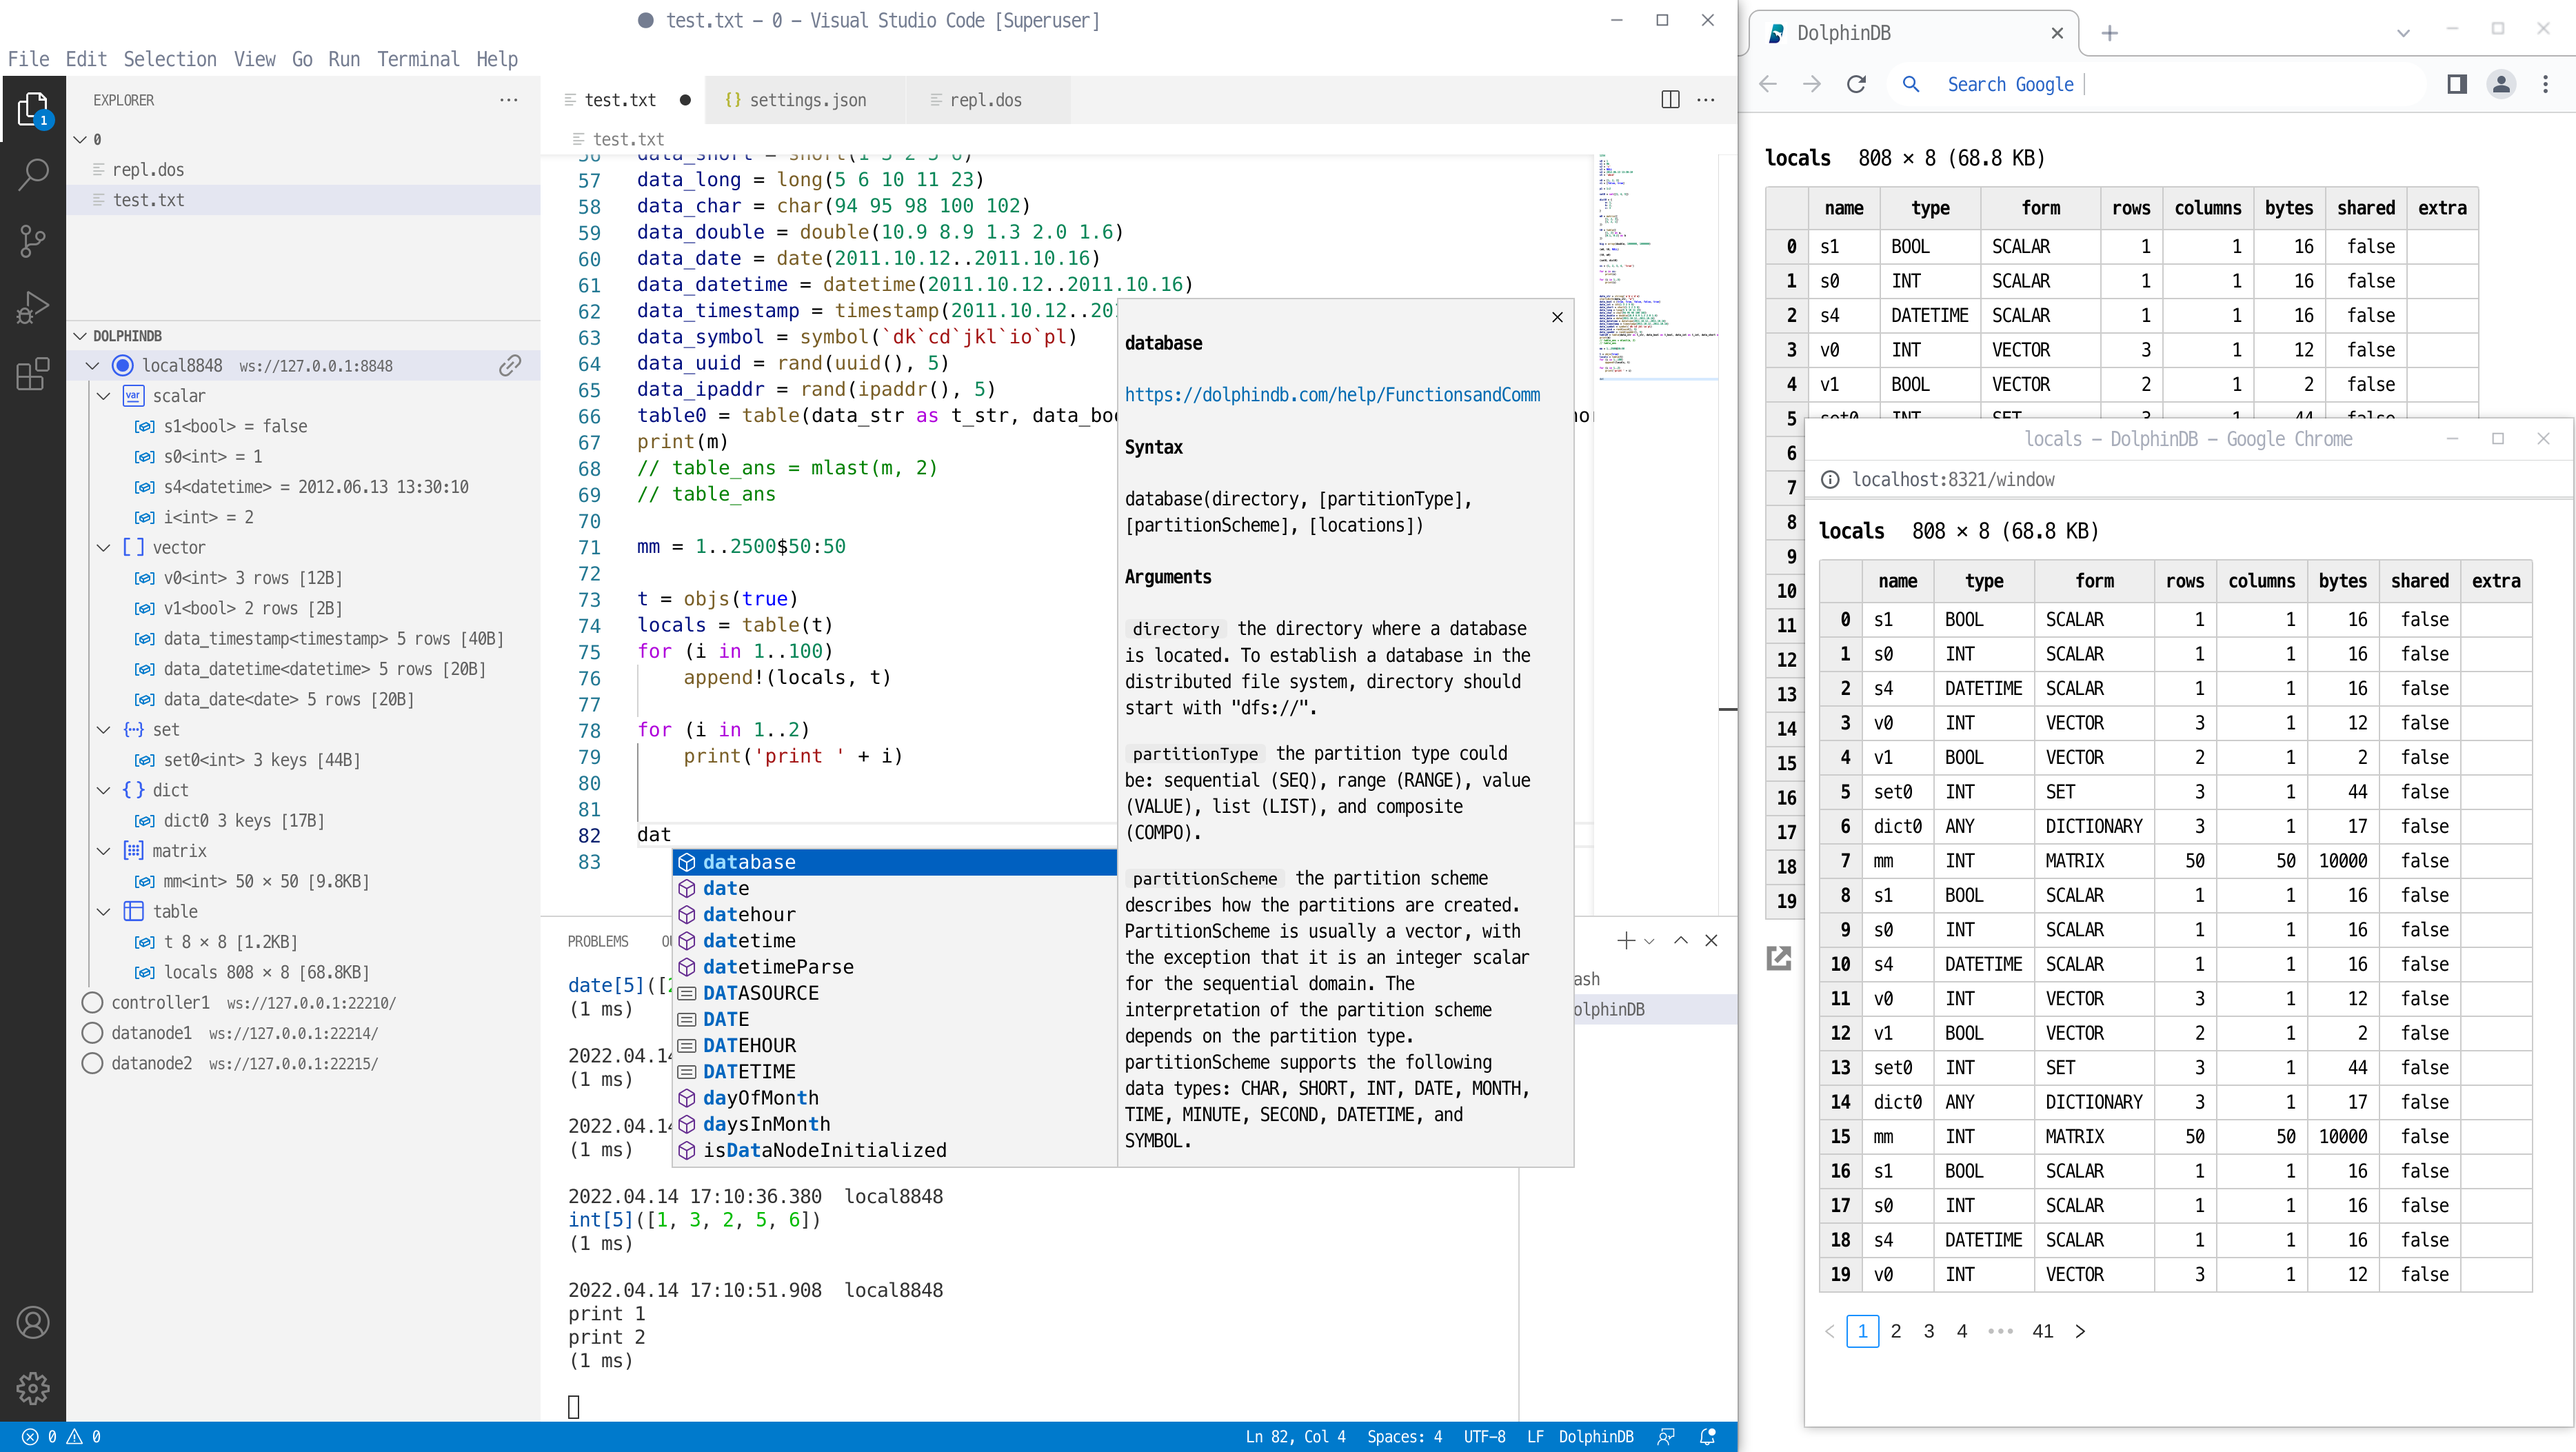
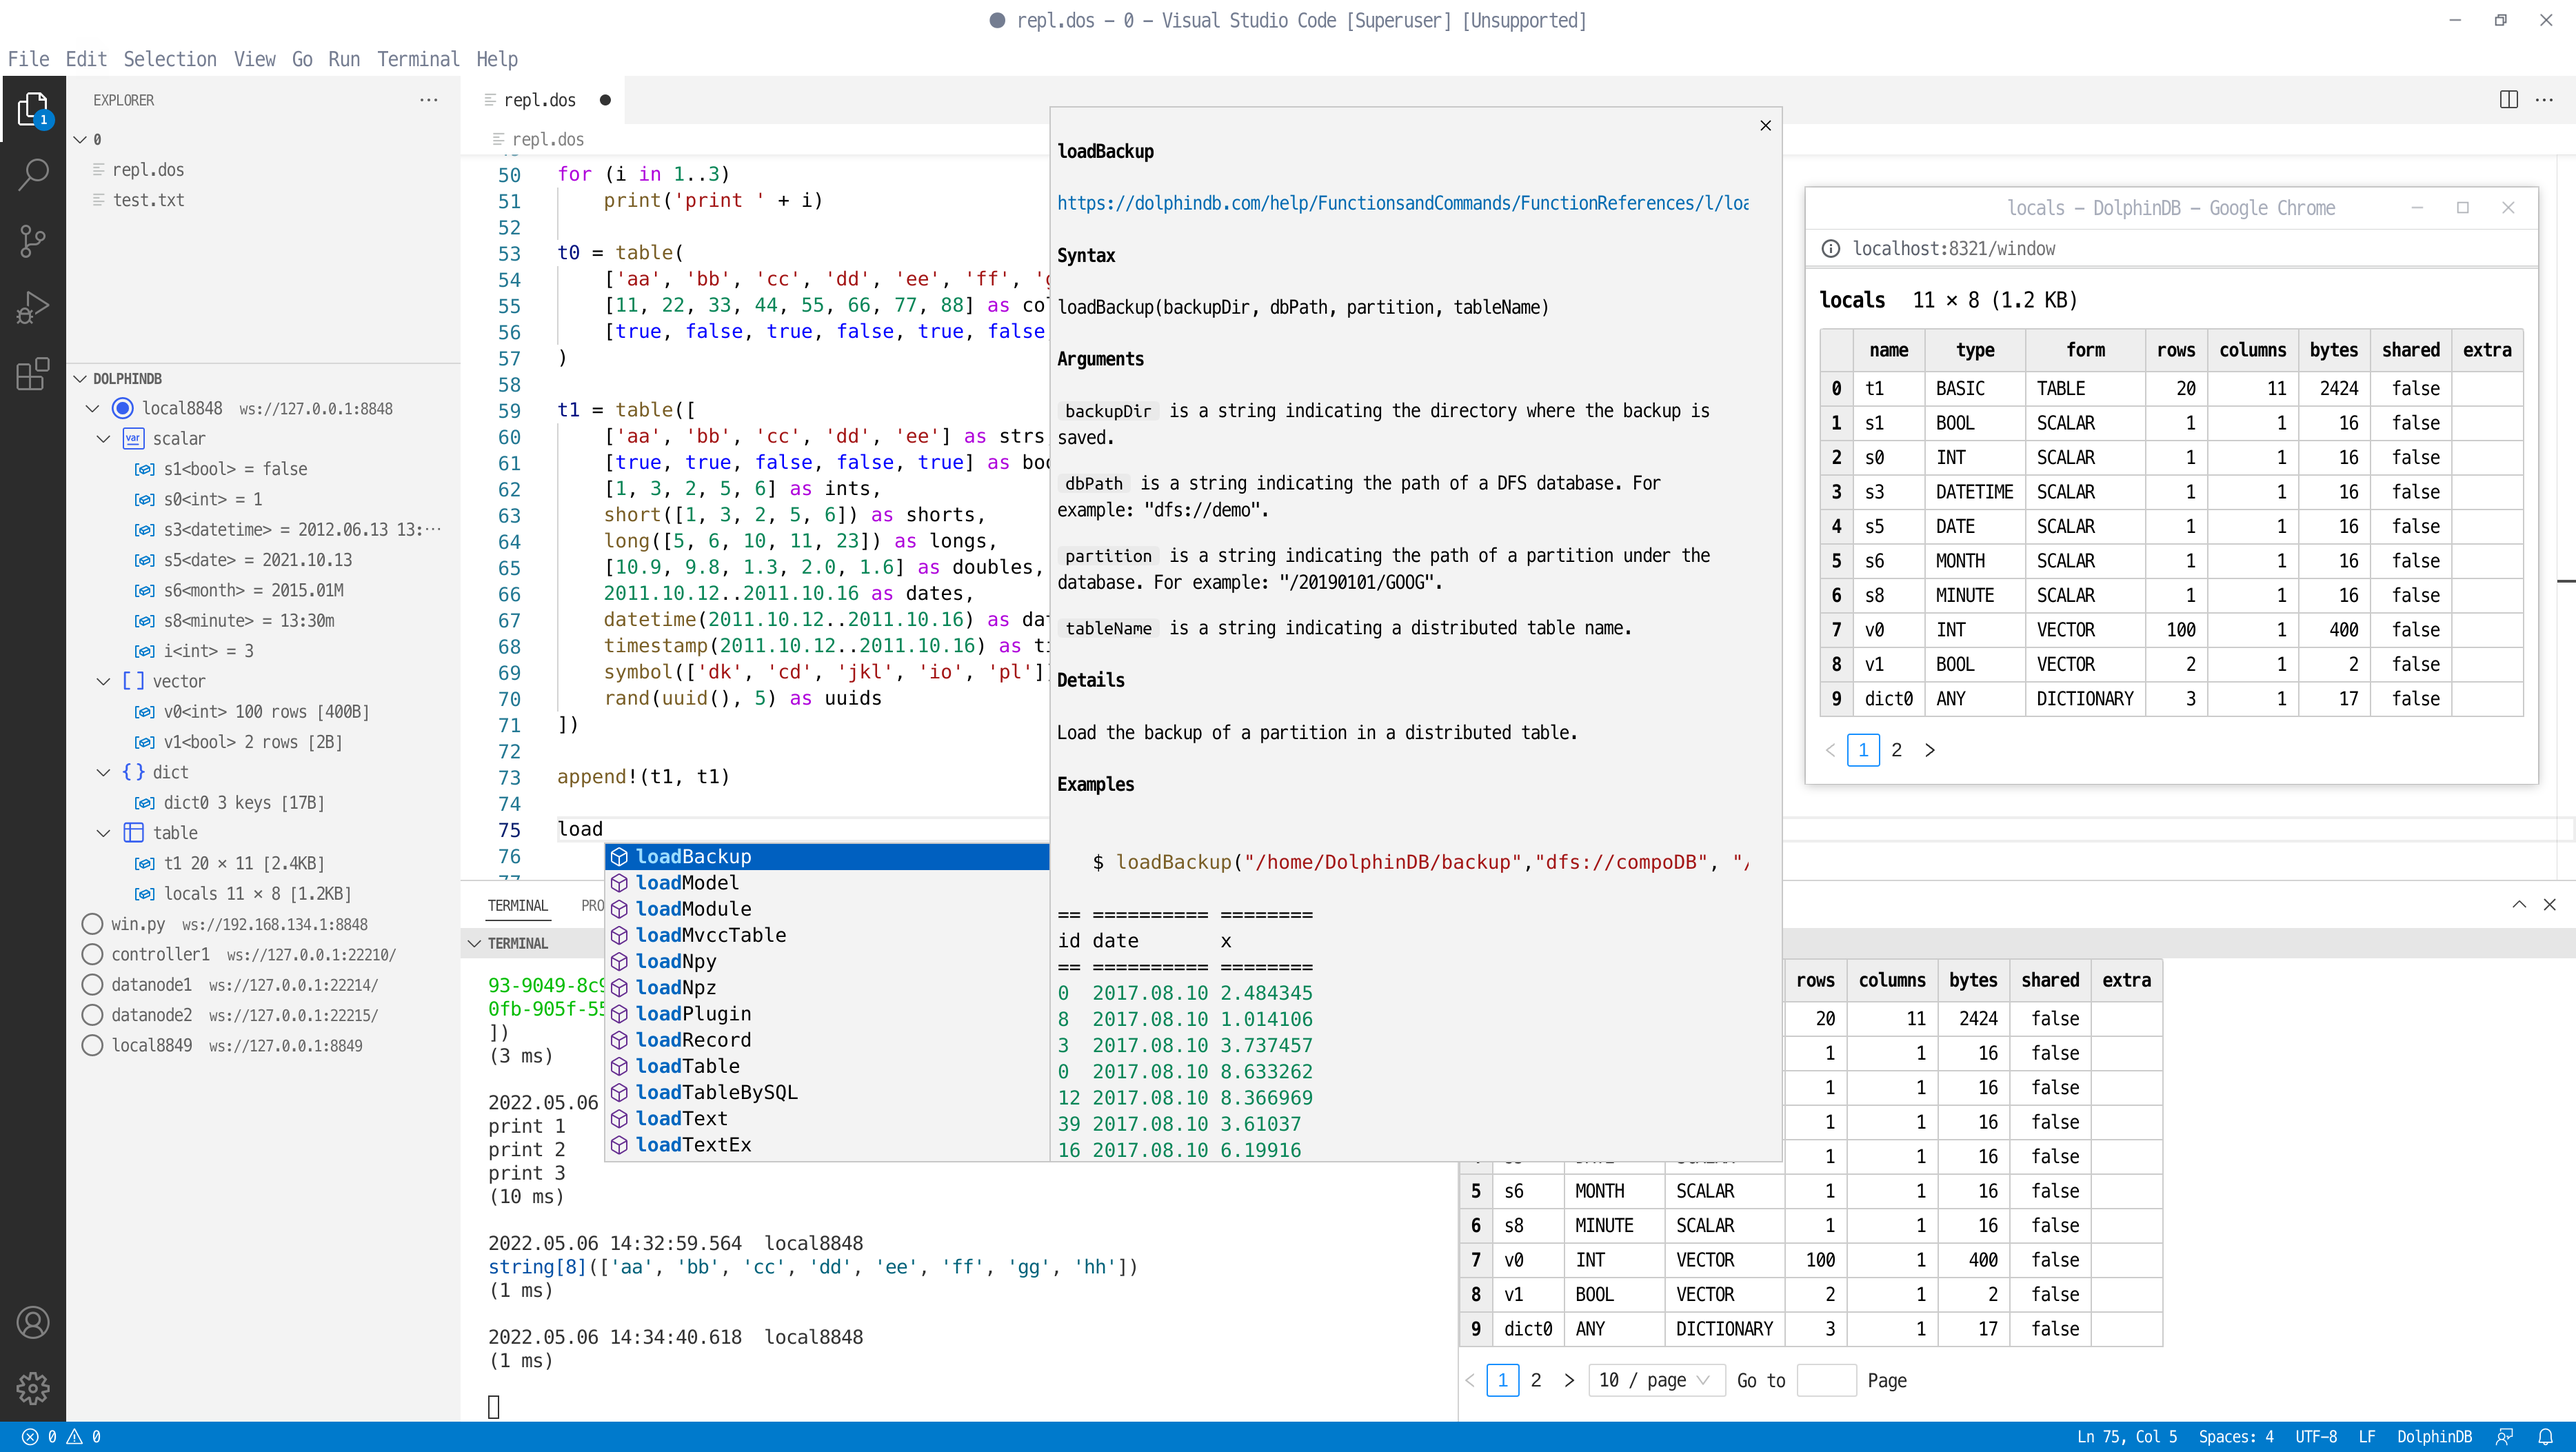
ext README.md;

diff --git a/README.zh.md b/README.zh.md
@@ -27,13 +27,14 @@ DolphinDB 公司开发了这个针对 DolphinDB 数据库的 VSCode 插件，在
 - 关键字、常量、内置函数的代码补全
 - 内置函数的文档提示、参数提示
 - 终端可以展示代码执行结果以及 print 函数输出的消息
+- 在底部面板中以表格的形式展示表格、向量、矩阵等数据结构
 - 在侧边面板中管理多个数据库连接，展示会话变量
-- 在浏览器弹窗中展示表格、向量、矩阵等数据结构
+- 在浏览器弹窗中显示表格
 
 <img src='./images/demo.png' width='1200'>
 
 ## 使用说明
-#### 1. 安装或升级 VSCode 到最新版 (v1.66.0 以上)
+#### 1. 安装或升级 VSCode 到最新版 (v1.68.0 以上)
 https://code.visualstudio.com/
 
 
@@ -76,17 +77,17 @@ https://marketplace.visualstudio.com/items?itemName=dolphindb.dolphindb-vscode
 - 如果当前有选中的代码，会将选中的代码发送至 DolphinDB Server 执行
 - 如果当前无选中的代码，会将当前光标所在的行发送至 DolphinDB Server 执行
 
-执行代码后会自动在浏览器中打开 `DolphinDB Data Browser` 页面 (URL 可能是 http://localhost:8321/)
+执行代码后，VSCode 编辑器下方的终端内会有基于文本的输出，如果执行的代码最后一条语句返回了表格、数组、矩阵，则会在 VSCode 编辑器下方面板的 DolphinDB 区域中以表格的形式展示表格、向量、矩阵等数据结构。建议将 DolphinDB 标签页的内容拖动到终端的右侧，如下图
 
-如果执行的代码最后一条语句返回了表格、数组、矩阵，则会在 `DolphinDB Data Browser` 页面以表格的形式展现
+<img src='./images/drag-dataview.png' width='600'>
 
-VSCode 编辑器下方的 Terminal 中也会有基于文本的输出
+<img src='./images/with-dataview.png' width='600'>
 
 如果出现服务器连接错误 (如：`ws://xxx` errored)，请确保:
 - DolphinDB Server 版本不低于 `1.30.16` 或 `2.00.4`
 - 如果有配置系统代理，则代理软件以及代理服务器需要支持 WebSocket 连接，否则请在系统中关闭代理，或者将 DolphinDB Server IP 添加到排除列表，然后重启 VSCode
 
-(如需自定义快捷键也可以到 VSCode 的 `文件 > 首选项 > 键盘快捷方式` (`File > Preferences > Keyboard Shortcuts`) 中修改，输入 dolphindb, 找到 execute 后，双击，输入你想要的快捷键)
+(如需自定义快捷键，也可以到 VSCode 的 `文件 > 首选项 > 键盘快捷方式` (`File > Preferences > Keyboard Shortcuts`) 中修改，输入 dolphindb, 找到 execute 后，双击，输入你想要的快捷键)
 
 (为了在浏览器中展示表格等数据，每个 VSCode 窗口会启动一个本地 HTTP 服务器，其可用端口范围可以通过 `dolphindb.ports` 配置，默认为 `8321-8420`，鼠标悬浮在 ports 上可查看详细解释)
 
@@ -96,8 +97,8 @@ VSCode 编辑器下方的 Terminal 中也会有基于文本的输出
 - 点击连接右侧的按钮手动断开连接
 - 查看会话变量的值
 - 非 scalar, pair 类型的变量右侧有两个图标
-    - 点击左边的图标可以在浏览器页面 http://localhost:8321/ 中查看变量
-    - 点击右边的图标可以直接打开一个浏览器弹窗，在弹窗中查看变量 (需要配置浏览器允许弹窗, 见后文)
+    - 点击左边的图标可以在编辑器下方面板的 DolphinDB 区域中查看变量
+    - 点击右边的图标可以直接打开一个浏览器弹窗，在弹窗中查看变量 (需要配置浏览器允许弹窗, 见后文)。弹窗功能需要浏览器中有一个打开的 `DolphinDB Data Browser` 标签页 (URL 可能是 http://localhost:8321/)，如果缺少这个标签页插件会先自动打开这个页面
 
 <img src='./images/explorer.png' width='400'>
 

diff --git a/README.md b/README.md
@@ -27,14 +27,15 @@ DolphinDB has developed this VSCode extension for the DolphinDB database, adding
 - Code completion for keywords, constants, built-in functions
 - Documentation hints, parameter hints for built-in functions
 - The terminal can display the results of code execution and the messages output by the print function
+- Display data structures such as tables, vectors, matrices, etc. in tabular form in the bottom panel
 - Manage multiple database connections in the side panel, showing session variables
-- Display data structures such as tables, vectors, matrices, etc. in the browser pop-up window
+- Display table in browser popup
 
 <img src='./images/demo.png' width='1200'>
 
 
 ## Getting Started
-#### 1. Upgrade VSCode to the latest version (above v1.66.0)
+#### 1. Install or upgrade VSCode to the latest version (above v1.68.0)
 https://code.visualstudio.com/
 
 
@@ -76,11 +77,11 @@ In the opened DolphinDB script file, you can press the shortcut key `Ctrl + E` t
 - If there is currently selected code, the selected code will be sent to DolphinDB Server for execution
 - If there is no currently selected code, the line where the current cursor is will be sent to DolphinDB Server for execution
 
-The `Dolphindb Data Browser` page (URL may be http://localhost:8321/) will be automatically opened in the browser after executing the code
+After the code is executed, there will be text-based output in the terminal below the VSCode editor. If the last statement of the executed code returns a table, array, or matrix, it will be displayed in the form of a table in the DolphinDB area of the lower panel of the VSCode editor. Data structures such as tables, vectors, matrices, etc. It is recommended to drag the content of the DolphinDB tab to the right side of the terminal, as shown below
 
-If the final statement executed returns a table, vector or matrix, the result will be displayed in the form of a table in the `Dolphindb Data Browser` page.
+<img src='./images/drag-dataview.png' width='600'>
 
-There will also be text-based output in the Terminal below the VSCode editor
+<img src='./images/with-dataview.png' width='600'>
 
 If you get a connection error (eg: `ws://xxx` errored), make sure that:
 - DolphinDB Server version is at least `1.30.16` or `2.00.4`
@@ -97,8 +98,8 @@ As shown in the figure below, it has the following functions:
 - Click the button to the right of the connection to manually disconnect
 - View the value of the session variable
 - Variables other than scalar, pair have two icons to the right
-    - Click the icon on the left to view the variables in the browser page http://localhost:8321/
-    - Click the icon on the right to directly open a browser pop-up window and view the variables in the pop-up window (you need to configure the browser to allow the pop-up window, see later)
+    - Click the icon on the left to view the variables in the DolphinDB area of the lower panel of the editor
+    - Click the icon on the right to directly open a browser pop-up window and view the variables in the pop-up window (you need to configure the browser to allow the pop-up window, see later). The popup function requires an open `DolphinDB Data Browser` tab in the browser (the URL may be http://localhost:8321/). If this tab is missing, the plugin will automatically open this page first.
 
 <img src='./images/explorer.png' width='400'>
 
